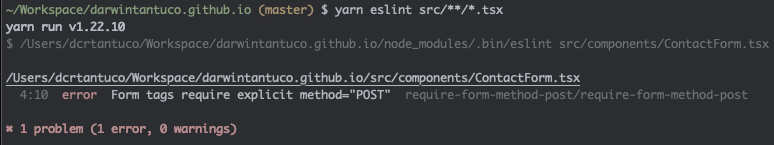
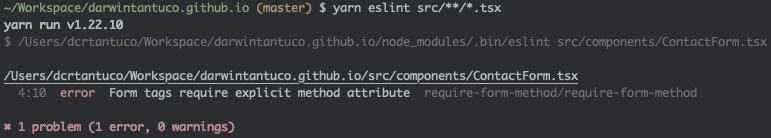
Rename plugin

diff --git a/tests/lib/rules/require-form-method.js b/tests/lib/rules/require-form-method.js
@@ -1,7 +1,7 @@
 "use strict";
 
 const RuleTester = require("eslint").RuleTester;
-const rule = require("../../../lib/rules/require-form-method-post");
+const rule = require("../../../lib/rules/require-form-method");
 
 const parserOptions = {
   ecmaVersion: 2018,
@@ -13,9 +13,11 @@ const parserOptions = {
 
 const ruleTester = new RuleTester({ parserOptions });
 
-const defaultErrors = [{ message: 'Form tags require explicit method="POST"' }];
+const defaultErrors = [
+  { message: "Form tags require explicit method attribute" },
+];
 
-ruleTester.run("require-form-method-post", rule, {
+ruleTester.run("require-form-method", rule, {
   valid: [
     // Allow form tags with explicit method="post"
     { code: `<form method="post" onSubmit={handleSubmit}></form>` },
@@ -40,7 +42,7 @@ ruleTester.run("require-form-method-post", rule, {
     { code: `<form METHOD="POST"></form>` },
   ],
   invalid: [
-    // Disallow form tags without explicit method="post"
+    // Disallow form tags without explicit method
     { code: `<form></form>`, errors: defaultErrors },
     { code: `<form onSubmit={handleSubmit}></form>`, errors: defaultErrors },
     {

diff --git a/lib/rules/require-form-method.js b/lib/rules/require-form-method.js
@@ -2,7 +2,7 @@
 
 const METHOD_VALUES = ["post", "get"];
 
-function withMethodPost(attributes) {
+function withValidMethodAttribute(attributes) {
   const method = (attributes || []).find(
     (attribute) =>
       attribute.type === "JSXAttribute" &&
@@ -17,11 +17,11 @@ module.exports = {
     return {
       JSXOpeningElement(node) {
         if (node.name.name !== "form") return;
-        if (withMethodPost(node.attributes)) return;
+        if (withValidMethodAttribute(node.attributes)) return;
 
         context.report({
           node,
-          message: 'Form tags require explicit method="POST"',
+          message: "Form tags require explicit method attribute",
         });
       },
     };

diff --git a/README.md b/README.md
@@ -1,12 +1,10 @@
-# eslint-plugin-require-form-method-post
+# eslint-plugin-require-form-method
 
-![Node.js CI](https://github.com/darwintantuco/eslint-plugin-require-form-method-post/workflows/Node.js%20CI/badge.svg?branch=master)
+![Node.js CI](https://github.com/darwintantuco/eslint-plugin-require-form-method/workflows/Node.js%20CI/badge.svg?branch=master)
 
-Disallow form tags without explicit method="post"
+Disallow form tags without explicit method attribute
 
 Prevents sensitive data appearing on URLs
-
-Allow form tags with explicit method="get"
 
 ![](demo.png)
 
@@ -18,27 +16,27 @@ You'll first need to install [ESLint](http://eslint.org):
 $ npm i eslint --save-dev
 ```
 
-Next, install `eslint-plugin-require-form-method-post`:
+Next, install `eslint-plugin-require-form-method`:
 
 ### npm
 
 ```
-$ npm install eslint-plugin-require-form-method-post --save-dev
+$ npm install eslint-plugin-require-form-method --save-dev
 ```
 
 ### yarn
 
 ```
-$ yarn add eslint-plugin-require-form-method-post --dev
+$ yarn add eslint-plugin-require-form-method --dev
 ```
 
 ## Usage
 
-Add `require-form-method-post` to the plugins section of your `.eslintrc` configuration file. You can omit the `eslint-plugin-` prefix:
+Add `require-form-method` to the plugins section of your `.eslintrc` configuration file. You can omit the `eslint-plugin-` prefix:
 
 ```json
 {
-  "plugins": ["require-form-method-post"]
+  "plugins": ["require-form-method"]
 }
 ```
 
@@ -47,7 +45,7 @@ Then configure the rules you want to use under the rules section.
 ```json
 {
   "rules": {
-    "require-form-method-post/require-form-method-post": "error"
+    "require-form-method/require-form-method": "error"
   }
 }
 ```

diff --git a/CHANGELOG.md b/CHANGELOG.md
@@ -2,6 +2,12 @@
 
 All changes on this project will be documented in this file.
 
+## [1.0.2] - April 24, 2022
+
+- Rename package from eslint-plugin-require-form-method-post to eslint-plugin-require-form-method
+- Deprecate eslint-plugin-require-form-method-post
+- Publish eslint-plugin-require-form-method
+
 ## [1.0.1] - April 14, 2022
 
 - Allow form tags with explicit method="get"
